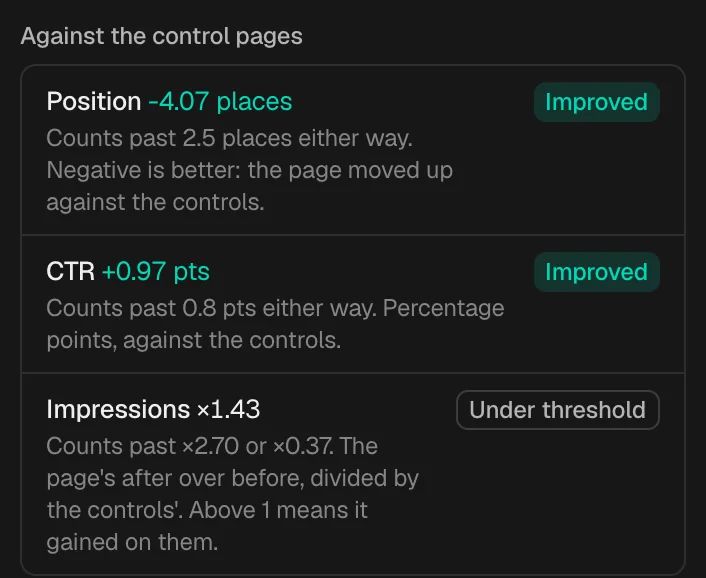
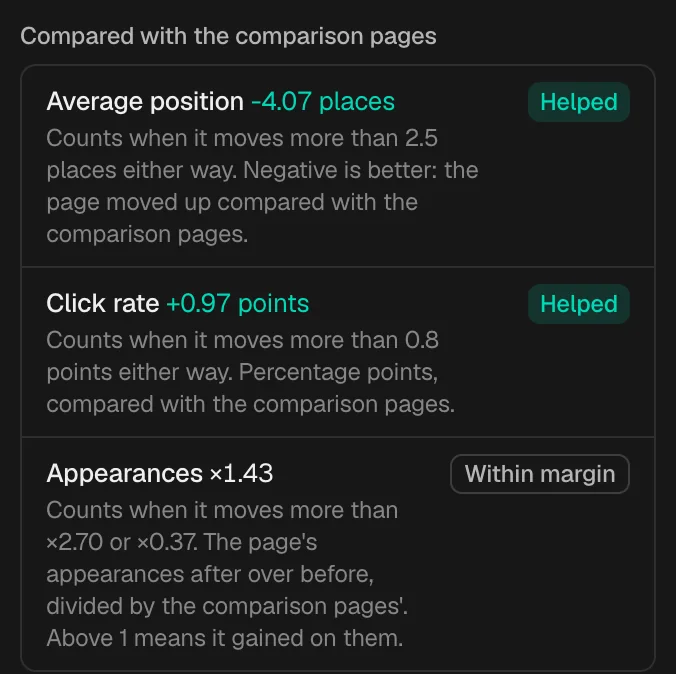
Show Unkey and the products AI answers name beside it on the homepage, with fresh app screenshots

diff --git a/site/index.html b/site/index.html
@@ -16,7 +16,7 @@
 <meta property="og:image" content="https://byname.dev/og.png" />
 <meta property="og:image:width" content="1200" />
 <meta property="og:image:height" content="630" />
-<meta property="og:image:alt" content="Byname: when buyers ask AI, does it say your name? An AI answer marked up by Byname: the example brand circled at position 2 and cited, the brands named instead underlined." />
+<meta property="og:image:alt" content="Byname: when buyers ask AI, does it say your name? An AI answer marked up by Byname: the example brand circled at position 2 and linked, the brands named instead underlined." />
 <meta name="twitter:card" content="summary_large_image" />
 <meta name="twitter:title" content="Byname: find out when AI answers name you" />
 <meta name="twitter:description" content="Open source and self-hosted. MIT licensed. Deploy it on Unkey in one prompt." />
@@ -63,7 +63,7 @@
   <section class="hero wrap" id="top" aria-labelledby="hero-title">
     <div class="hero-copy">
       <h1 id="hero-title">When buyers ask AI, does it say <span class="mk" data-mark="circle" data-pad="0.16em 0.05em" data-sw="3">your name</span>?</h1>
-      <p class="hero-lede">Byname asks your buyers' questions in the ChatGPT app, Google AI Mode, Claude Code and nine other places, on a schedule. It keeps every answer, marks who was named and cited, and tells you when that changes.</p>
+      <p class="hero-lede">Byname asks your buyers' questions in the ChatGPT app, Google AI Mode, Claude Code and nine other places, on a schedule. It keeps every answer, marks who was named and linked, and tells you when that changes.</p>
       <div class="hero-acts">
         <a class="btn" href="#run">Deploy on Unkey</a>
         <a class="go" href="https://github.com/unkeyed/byname">View on GitHub</a>
@@ -77,29 +77,29 @@
       <div class="sheet answer" data-hero>
         <article class="pane" id="pane-0" role="tabpanel" aria-labelledby="tab-0" data-stamp="Named #2" data-stamp-tone="you">
           <header class="sheet-head"><span>Asked in <b>ChatGPT app</b></span><span>App answer</span></header>
-          <p class="q">Which hosting platform should a small SaaS team use in 2026?</p>
+          <p class="q">Where should a small team deploy a public API in 2026?</p>
           <div class="ans">
             <p>It depends on your stack, but three providers come up again and again.</p>
             <ol>
-              <li><span class="li-t"><b class="mk" data-mark="underline" data-tone="instead">Litware Cloud</b> for enterprise contracts and region pinning.</span><span class="note instead">#1, named instead</span></li>
-              <li><span class="li-t"><b class="mk" data-mark="circle">Northwind</b> for a managed platform with preview environments and per-team budgets.</span><span class="note you">you, #2 · cited</span></li>
-              <li><span class="li-t"><b class="mk" data-mark="underline" data-tone="instead">Tailspin Hosting</b> for long-running containers at a flat monthly price.</span><span class="note instead">#3</span></li>
+              <li><span class="li-t"><b class="mk" data-mark="underline" data-tone="instead">AWS</b> for API Gateway, Lambda and every region under one contract.</span><span class="note instead">#1, named instead</span></li>
+              <li><span class="li-t"><b class="mk" data-mark="circle">Unkey</b> for deploys with API keys, rate limits and a gateway built in.</span><span class="note you">you, #2 · linked</span></li>
+              <li><span class="li-t"><b class="mk" data-mark="underline" data-tone="instead">Fly.io</b> for long-running containers close to your users.</span><span class="note instead">#3</span></li>
             </ol>
           </div>
-          <footer class="sheet-foot"><span>Cited: northwind.example, litware.example, docs.example.org</span><span class="cost">under $0.01</span></footer>
+          <footer class="sheet-foot"><span>Linked: unkey.com, aws.amazon.com, github.com</span><span class="cost">under $0.01</span></footer>
         </article>
         <article class="pane" id="pane-1" role="tabpanel" aria-labelledby="tab-1" data-stamp="Named #1" data-stamp-tone="you" hidden>
           <header class="sheet-head"><span>Asked in <b>Google AI Mode</b></span><span>App answer</span></header>
-          <p class="q">What is the easiest way to get preview environments for every pull request?</p>
+          <p class="q">What is the easiest way to add API keys and rate limits to an existing API?</p>
           <div class="ans">
             <p>Pick a platform that builds a preview for each pull request and removes it when the branch merges.</p>
             <ol>
-              <li><span class="li-t"><b class="mk" data-mark="circle">Northwind</b> gives every pull request a preview URL and its own seeded database.</span><span class="note you">you, #1 · cited</span></li>
-              <li><span class="li-t"><b class="mk" data-mark="underline" data-tone="instead">Fabrikam Deploy</b> builds previews through a GitHub Action you maintain.</span><span class="note instead">#2</span></li>
-              <li><span class="li-t"><b class="mk" data-mark="underline" data-tone="instead">Contoso Edge</b> routes previews at the edge, with one shared database.</span><span class="note instead">#3</span></li>
+              <li><span class="li-t"><b class="mk" data-mark="circle">Unkey</b> issues and verifies keys, with a rate limit on each key, in one call.</span><span class="note you">you, #1 · linked</span></li>
+              <li><span class="li-t"><b class="mk" data-mark="underline" data-tone="instead">Zuplo</b> adds key auth and rate limits as policies on its gateway.</span><span class="note instead">#2</span></li>
+              <li><span class="li-t"><b class="mk" data-mark="underline" data-tone="instead">Cloudflare</b> rate limits at the edge, with rules you set per route.</span><span class="note instead">#3</span></li>
             </ol>
           </div>
-          <footer class="sheet-foot"><span>Cited: northwind.example, fabrikam.example</span><span class="cost">under $0.01</span></footer>
+          <footer class="sheet-foot"><span>Linked: unkey.com, zuplo.com</span><span class="cost">under $0.01</span></footer>
         </article>
         <article class="pane" id="pane-2" role="tabpanel" aria-labelledby="tab-2" data-stamp="Not named" data-stamp-tone="instead" hidden>
           <header class="sheet-head"><span>Asked in <b>Claude Code</b> · claude-sonnet-5-5</span><span>Same model and search</span></header>
@@ -107,9 +107,9 @@
           <div class="ans">
             <p>Choose a provider with a Frankfurt or Amsterdam region and managed Postgres in the same place.</p>
             <ol>
-              <li><span class="li-t"><b class="mk" data-mark="underline" data-tone="instead">Tailspin Hosting</b> runs managed Postgres in Frankfurt with read replicas.</span><span class="note instead">named instead</span></li>
-              <li><span class="li-t"><b class="mk" data-mark="underline" data-tone="instead">Contoso Edge</b> puts edge routing in front of a regional database.</span><span class="note instead">named instead</span></li>
-              <li><span class="li-t"><b class="mk" data-mark="underline" data-tone="instead">Fabrikam Deploy</b> keeps container deploys and data inside the EU.</span><span class="note instead">named instead</span></li>
+              <li><span class="li-t"><b class="mk" data-mark="underline" data-tone="instead">Fly.io</b> runs your API and managed Postgres in Frankfurt.</span><span class="note instead">named instead</span></li>
+              <li><span class="li-t"><b class="mk" data-mark="underline" data-tone="instead">Cloudflare</b> puts edge routing in front of a regional database.</span><span class="note instead">named instead</span></li>
+              <li><span class="li-t"><b class="mk" data-mark="underline" data-tone="instead">AWS</b> keeps API Gateway and RDS together in Frankfurt.</span><span class="note instead">named instead</span></li>
             </ol>
           </div>
           <footer class="sheet-foot"><span>Searched: managed postgres frankfurt, eu api hosting</span><span class="cost">$0.05</span></footer>
@@ -135,25 +135,25 @@
     <figure class="contents sheet" data-reveal>
       <div class="contents-scroll">
         <table class="qtable">
-          <caption class="sr-only">Check #8 for Northwind Cloud, an example brand: each question on each surface and model.</caption>
+          <caption class="sr-only">Check #8 for Unkey, with example data: each question on each surface and model.</caption>
 <!-- contents -->
 <thead><tr><th scope="col" class="q-h">Question</th><th scope="col"><span>ChatGPT app</span></th><th scope="col"><span>Google AI Overview</span></th><th scope="col"><span>Perplexity app</span></th><th scope="col"><span>Codex CLI</span></th><th scope="col"><span>Claude Code<small>Opus 5.5</small></span></th><th scope="col"><span>Claude Code<small>Sonnet 5.5</small></span></th><th scope="col" class="q-s">Named</th></tr></thead>
 <tbody>
-<tr><th scope="row"><div class="q-cell"><span class="q-n">1</span><span class="q-t">Which hosting platform should a small SaaS team use in 2026?</span></div></th><td data-s="ChatGPT"><span class="tm mk" data-mark="circle" aria-hidden="true">1</span><span class="sr-only">ChatGPT app: named #1</span></td><td data-s="AI Overview"><span class="tm mk" data-mark="circle" aria-hidden="true">1</span><span class="sr-only">Google AI Overview: named #1</span></td><td data-s="Perplexity"><span class="tm mk" data-mark="circle" aria-hidden="true">2</span><span class="sr-only">Perplexity app: named #2</span></td><td data-s="Codex"><span class="tm mk" data-mark="circle" aria-hidden="true">2</span><span class="sr-only">Codex CLI: named #2</span></td><td data-s="Opus"><span class="tm mk" data-mark="circle" aria-hidden="true">2</span><span class="sr-only">Claude Code Opus 5.5: named #2</span></td><td data-s="Sonnet"><span class="tm mk" data-mark="circle" aria-hidden="true">2</span><span class="sr-only">Claude Code Sonnet 5.5: named #2</span></td><td class="q-s">6<small> of 6</small></td></tr>
-<tr><th scope="row"><div class="q-cell"><span class="q-n">2</span><span class="q-t">What is the easiest way to get preview environments for every pull request?</span></div></th><td data-s="ChatGPT"><span class="tm mk" data-mark="circle" aria-hidden="true">2</span><span class="sr-only">ChatGPT app: named #2</span></td><td data-s="AI Overview"><span class="tm mk" data-mark="circle" aria-hidden="true">1</span><span class="sr-only">Google AI Overview: named #1</span></td><td data-s="Perplexity"><span class="tm mk" data-mark="circle" aria-hidden="true">1</span><span class="sr-only">Perplexity app: named #1</span></td><td data-s="Codex"><span class="tm mk" data-mark="circle" aria-hidden="true">2</span><span class="sr-only">Codex CLI: named #2</span></td><td data-s="Opus"><span class="tm mk" data-mark="circle" aria-hidden="true">1</span><span class="sr-only">Claude Code Opus 5.5: named #1</span></td><td data-s="Sonnet"><span class="tm mk" data-mark="circle" aria-hidden="true">4</span><span class="sr-only">Claude Code Sonnet 5.5: named #4</span></td><td class="q-s">6<small> of 6</small></td></tr>
-<tr><th scope="row"><div class="q-cell"><span class="q-n">3</span><span class="q-t">Which cloud platform has the most predictable pricing for a startup?</span></div></th><td data-s="ChatGPT"><span class="tm miss mk" data-mark="dash" data-tone="instead" aria-hidden="true"></span><span class="sr-only">ChatGPT app: not named</span></td><td data-s="AI Overview"><span class="tm mk" data-mark="circle" aria-hidden="true">2</span><span class="sr-only">Google AI Overview: named #2</span></td><td data-s="Perplexity"><span class="tm mk" data-mark="circle" aria-hidden="true">3</span><span class="sr-only">Perplexity app: named #3</span></td><td data-s="Codex"><span class="tm mk" data-mark="circle" aria-hidden="true">1</span><span class="sr-only">Codex CLI: named #1</span></td><td data-s="Opus"><span class="tm mk" data-mark="circle" aria-hidden="true">3</span><span class="sr-only">Claude Code Opus 5.5: named #3</span></td><td data-s="Sonnet"><span class="tm mk" data-mark="circle" aria-hidden="true">4</span><span class="sr-only">Claude Code Sonnet 5.5: named #4</span></td><td class="q-s">5<small> of 6</small></td></tr>
-<tr><th scope="row"><div class="q-cell"><span class="q-n">4</span><span class="q-t">How do I move a Node.js app off a single VPS without downtime?</span></div></th><td data-s="ChatGPT"><span class="tm mk" data-mark="circle" aria-hidden="true">2</span><span class="sr-only">ChatGPT app: named #2</span></td><td data-s="AI Overview"><span class="tm mk" data-mark="circle" aria-hidden="true">3</span><span class="sr-only">Google AI Overview: named #3</span></td><td data-s="Perplexity"><span class="tm mk" data-mark="circle" aria-hidden="true">2</span><span class="sr-only">Perplexity app: named #2</span></td><td data-s="Codex"><span class="tm mk" data-mark="circle" aria-hidden="true">1</span><span class="sr-only">Codex CLI: named #1</span></td><td data-s="Opus"><span class="tm mk" data-mark="circle" aria-hidden="true">1</span><span class="sr-only">Claude Code Opus 5.5: named #1</span></td><td data-s="Sonnet"><span class="tm mk" data-mark="circle" aria-hidden="true">1</span><span class="sr-only">Claude Code Sonnet 5.5: named #1</span></td><td class="q-s">6<small> of 6</small></td></tr>
-<tr><th scope="row"><div class="q-cell"><span class="q-n">5</span><span class="q-t">What are good alternatives to managing my own container cluster?</span></div></th><td data-s="ChatGPT"><span class="tm mk" data-mark="circle" aria-hidden="true">3</span><span class="sr-only">ChatGPT app: named #3</span></td><td data-s="AI Overview"><span class="tm mk" data-mark="circle" aria-hidden="true">2</span><span class="sr-only">Google AI Overview: named #2</span></td><td data-s="Perplexity"><span class="tm mk" data-mark="circle" aria-hidden="true">5</span><span class="sr-only">Perplexity app: named #5</span></td><td data-s="Codex"><span class="tm mk" data-mark="circle" aria-hidden="true">3</span><span class="sr-only">Codex CLI: named #3</span></td><td data-s="Opus"><span class="tm mk" data-mark="circle" aria-hidden="true">1</span><span class="sr-only">Claude Code Opus 5.5: named #1</span></td><td data-s="Sonnet"><span class="tm mk" data-mark="circle" aria-hidden="true">1</span><span class="sr-only">Claude Code Sonnet 5.5: named #1</span></td><td class="q-s">6<small> of 6</small></td></tr>
-<tr><th scope="row"><div class="q-cell"><span class="q-n">6</span><span class="q-t">Which platform is best for hosting a Postgres-backed API close to European users?</span></div></th><td data-s="ChatGPT"><span class="tm miss mk" data-mark="dash" data-tone="instead" aria-hidden="true"></span><span class="sr-only">ChatGPT app: not named</span></td><td data-s="AI Overview"><span class="tm miss mk" data-mark="dash" data-tone="instead" aria-hidden="true"></span><span class="sr-only">Google AI Overview: not named</span></td><td data-s="Perplexity"><span class="tm cite mk" data-mark="tick" aria-hidden="true">c</span><span class="sr-only">Perplexity app: cited, not named</span></td><td data-s="Codex"><span class="tm miss mk" data-mark="dash" data-tone="instead" aria-hidden="true"></span><span class="sr-only">Codex CLI: not named</span></td><td data-s="Opus"><span class="tm cite mk" data-mark="tick" aria-hidden="true">c</span><span class="sr-only">Claude Code Opus 5.5: cited, not named</span></td><td data-s="Sonnet"><span class="tm miss mk" data-mark="dash" data-tone="instead" aria-hidden="true"></span><span class="sr-only">Claude Code Sonnet 5.5: not named</span></td><td class="q-s">0<small> of 6</small></td></tr>
+<tr><th scope="row"><div class="q-cell"><span class="q-n">1</span><span class="q-t">Where should a small team deploy a public API in 2026?</span></div></th><td data-s="ChatGPT"><span class="tm mk" data-mark="circle" aria-hidden="true">1</span><span class="sr-only">ChatGPT app: named #1</span></td><td data-s="AI Overview"><span class="tm mk" data-mark="circle" aria-hidden="true">1</span><span class="sr-only">Google AI Overview: named #1</span></td><td data-s="Perplexity"><span class="tm mk" data-mark="circle" aria-hidden="true">2</span><span class="sr-only">Perplexity app: named #2</span></td><td data-s="Codex"><span class="tm mk" data-mark="circle" aria-hidden="true">2</span><span class="sr-only">Codex CLI: named #2</span></td><td data-s="Opus"><span class="tm mk" data-mark="circle" aria-hidden="true">2</span><span class="sr-only">Claude Code Opus 5.5: named #2</span></td><td data-s="Sonnet"><span class="tm mk" data-mark="circle" aria-hidden="true">2</span><span class="sr-only">Claude Code Sonnet 5.5: named #2</span></td><td class="q-s">6<small> of 6</small></td></tr>
+<tr><th scope="row"><div class="q-cell"><span class="q-n">2</span><span class="q-t">What is the easiest way to add API keys and rate limits to an existing API?</span></div></th><td data-s="ChatGPT"><span class="tm mk" data-mark="circle" aria-hidden="true">2</span><span class="sr-only">ChatGPT app: named #2</span></td><td data-s="AI Overview"><span class="tm mk" data-mark="circle" aria-hidden="true">1</span><span class="sr-only">Google AI Overview: named #1</span></td><td data-s="Perplexity"><span class="tm mk" data-mark="circle" aria-hidden="true">1</span><span class="sr-only">Perplexity app: named #1</span></td><td data-s="Codex"><span class="tm mk" data-mark="circle" aria-hidden="true">2</span><span class="sr-only">Codex CLI: named #2</span></td><td data-s="Opus"><span class="tm mk" data-mark="circle" aria-hidden="true">1</span><span class="sr-only">Claude Code Opus 5.5: named #1</span></td><td data-s="Sonnet"><span class="tm mk" data-mark="circle" aria-hidden="true">4</span><span class="sr-only">Claude Code Sonnet 5.5: named #4</span></td><td class="q-s">6<small> of 6</small></td></tr>
+<tr><th scope="row"><div class="q-cell"><span class="q-n">3</span><span class="q-t">Which API platform has the most predictable pricing for a startup?</span></div></th><td data-s="ChatGPT"><span class="tm miss mk" data-mark="dash" data-tone="instead" aria-hidden="true"></span><span class="sr-only">ChatGPT app: not named</span></td><td data-s="AI Overview"><span class="tm mk" data-mark="circle" aria-hidden="true">2</span><span class="sr-only">Google AI Overview: named #2</span></td><td data-s="Perplexity"><span class="tm mk" data-mark="circle" aria-hidden="true">3</span><span class="sr-only">Perplexity app: named #3</span></td><td data-s="Codex"><span class="tm mk" data-mark="circle" aria-hidden="true">1</span><span class="sr-only">Codex CLI: named #1</span></td><td data-s="Opus"><span class="tm mk" data-mark="circle" aria-hidden="true">3</span><span class="sr-only">Claude Code Opus 5.5: named #3</span></td><td data-s="Sonnet"><span class="tm mk" data-mark="circle" aria-hidden="true">4</span><span class="sr-only">Claude Code Sonnet 5.5: named #4</span></td><td class="q-s">5<small> of 6</small></td></tr>
+<tr><th scope="row"><div class="q-cell"><span class="q-n">4</span><span class="q-t">How do I move an API off a single VPS without downtime?</span></div></th><td data-s="ChatGPT"><span class="tm mk" data-mark="circle" aria-hidden="true">2</span><span class="sr-only">ChatGPT app: named #2</span></td><td data-s="AI Overview"><span class="tm mk" data-mark="circle" aria-hidden="true">3</span><span class="sr-only">Google AI Overview: named #3</span></td><td data-s="Perplexity"><span class="tm mk" data-mark="circle" aria-hidden="true">2</span><span class="sr-only">Perplexity app: named #2</span></td><td data-s="Codex"><span class="tm mk" data-mark="circle" aria-hidden="true">1</span><span class="sr-only">Codex CLI: named #1</span></td><td data-s="Opus"><span class="tm mk" data-mark="circle" aria-hidden="true">1</span><span class="sr-only">Claude Code Opus 5.5: named #1</span></td><td data-s="Sonnet"><span class="tm mk" data-mark="circle" aria-hidden="true">1</span><span class="sr-only">Claude Code Sonnet 5.5: named #1</span></td><td class="q-s">6<small> of 6</small></td></tr>
+<tr><th scope="row"><div class="q-cell"><span class="q-n">5</span><span class="q-t">What are good alternatives to running my own API gateway?</span></div></th><td data-s="ChatGPT"><span class="tm mk" data-mark="circle" aria-hidden="true">3</span><span class="sr-only">ChatGPT app: named #3</span></td><td data-s="AI Overview"><span class="tm mk" data-mark="circle" aria-hidden="true">2</span><span class="sr-only">Google AI Overview: named #2</span></td><td data-s="Perplexity"><span class="tm mk" data-mark="circle" aria-hidden="true">5</span><span class="sr-only">Perplexity app: named #5</span></td><td data-s="Codex"><span class="tm mk" data-mark="circle" aria-hidden="true">3</span><span class="sr-only">Codex CLI: named #3</span></td><td data-s="Opus"><span class="tm mk" data-mark="circle" aria-hidden="true">1</span><span class="sr-only">Claude Code Opus 5.5: named #1</span></td><td data-s="Sonnet"><span class="tm mk" data-mark="circle" aria-hidden="true">1</span><span class="sr-only">Claude Code Sonnet 5.5: named #1</span></td><td class="q-s">6<small> of 6</small></td></tr>
+<tr><th scope="row"><div class="q-cell"><span class="q-n">6</span><span class="q-t">Which platform is best for hosting a Postgres-backed API close to European users?</span></div></th><td data-s="ChatGPT"><span class="tm miss mk" data-mark="dash" data-tone="instead" aria-hidden="true"></span><span class="sr-only">ChatGPT app: not named</span></td><td data-s="AI Overview"><span class="tm miss mk" data-mark="dash" data-tone="instead" aria-hidden="true"></span><span class="sr-only">Google AI Overview: not named</span></td><td data-s="Perplexity"><span class="tm cite mk" data-mark="tick" aria-hidden="true"></span><span class="sr-only">Perplexity app: linked, not named</span></td><td data-s="Codex"><span class="tm miss mk" data-mark="dash" data-tone="instead" aria-hidden="true"></span><span class="sr-only">Codex CLI: not named</span></td><td data-s="Opus"><span class="tm cite mk" data-mark="tick" aria-hidden="true"></span><span class="sr-only">Claude Code Opus 5.5: linked, not named</span></td><td data-s="Sonnet"><span class="tm miss mk" data-mark="dash" data-tone="instead" aria-hidden="true"></span><span class="sr-only">Claude Code Sonnet 5.5: not named</span></td><td class="q-s">0<small> of 6</small></td></tr>
 </tbody>
 <!-- /contents -->
         </table>
       </div>
       <figcaption class="legend">
         <span><span class="tm mk" data-mark="circle" aria-hidden="true">2</span> named, at position 2</span>
-        <span><span class="tm cite mk" data-mark="tick" aria-hidden="true">c</span> cited, not named</span>
+        <span><span class="tm cite mk" data-mark="tick" aria-hidden="true"></span> linked, not named</span>
         <span><span class="tm miss mk" data-mark="dash" data-tone="instead" aria-hidden="true"></span> named someone else</span>
-        <span class="legend-src">Check #8 · Northwind Cloud, an example brand · 29 of 36 named</span>
+        <span class="legend-src">Check #8 · Unkey, example data · 29 of 36 named</span>
       </figcaption>
     </figure>
   </section>
@@ -164,11 +164,11 @@
         <p class="kicker"><span>2</span>The record</p>
         <h2 id="record-title">Every answer, kept. <em>With what it cost.</em></h2>
       </div>
-      <p class="sec-lede">Each check stores the raw answer, who it named and cited, and what the call cost. A call that reports no cost is flagged, never counted as $0.00. Pick any two checks to see what you gained, lost and moved.</p>
+      <p class="sec-lede">Each check stores the raw answer, who it named and linked to, and what the call cost. A call that reports no cost is flagged, never counted as $0.00. Pick any two checks to see what you gained, lost and moved.</p>
     </div>
     <figure class="ledger sheet" data-reveal>
       <table class="ltable">
-        <caption class="sr-only">Eight checks for the example brand Northwind Cloud, each with 36 answers: how many named it, what changed since the check before, and the spend.</caption>
+        <caption class="sr-only">Eight checks for Unkey, with example data, each with 36 answers: how many named it, what changed since the check before, and the spend.</caption>
         <thead><tr><th scope="col">Check</th><th scope="col">Named</th><th scope="col" class="l-strip-h">Its 36 answers</th><th scope="col">Gained</th><th scope="col">Lost</th><th scope="col">Moved</th><th scope="col">Spend</th></tr></thead>
         <tbody>
 <!-- ledger -->
@@ -189,7 +189,7 @@
         <p class="lnote you" data-for="8"><span class="mk" data-mark="underline">Check #8</span>: back to 29 of 36, the best yet.</p>
       </figcaption>
     </figure>
-    <p class="strip-key" aria-hidden="true"><svg viewBox="0 0 12 22"><path class="t-n" d="M6 4v14" /></svg>named <svg viewBox="0 0 12 22"><path class="t-c" d="M6 11v7" /></svg>cited only <svg viewBox="0 0 12 22"><path class="t-m" d="M6 15v3" /></svg>not named <svg viewBox="0 0 12 22"><path class="t-x" d="M4.5 13.5l3 3m0-3l-3 3" /></svg>failed</p>
+    <p class="strip-key" aria-hidden="true"><svg viewBox="0 0 12 22"><path class="t-n" d="M6 4v14" /></svg>named <svg viewBox="0 0 12 22"><path class="t-c" d="M6 11v7" /></svg>linked only <svg viewBox="0 0 12 22"><path class="t-m" d="M6 15v3" /></svg>not named <svg viewBox="0 0 12 22"><path class="t-x" d="M4.5 13.5l3 3m0-3l-3 3" /></svg>failed</p>
   </section>
 
   <section class="sec wrap" id="lost" aria-labelledby="lost-title">
@@ -201,28 +201,28 @@
     <div class="story" data-reveal>
       <figure class="sheet clip" aria-labelledby="c6-cap">
         <header class="sheet-head"><span id="c6-cap"><b>Check #6</b> · ChatGPT app</span><span>App answer</span></header>
-        <p class="q">Which cloud platform has the most predictable pricing for a startup?</p>
+        <p class="q">Which API platform has the most predictable pricing for a startup?</p>
         <ol class="mini">
-          <li><b>Litware Cloud</b></li>
-          <li><b class="mk" data-mark="circle">Northwind</b><span class="note you">you, #2 · cited</span></li>
-          <li><b>Contoso Edge</b></li>
-          <li><b>Tailspin Hosting</b></li>
-          <li><b>Fabrikam Deploy</b></li>
+          <li><b>AWS</b></li>
+          <li><b class="mk" data-mark="circle">Unkey</b><span class="note you">you, #2 · linked</span></li>
+          <li><b>Cloudflare</b></li>
+          <li><b>Fly.io</b></li>
+          <li><b>Zuplo</b></li>
         </ol>
-        <footer class="sheet-foot"><span>Cited: northwind.example and 3 more</span><span class="cost">under $0.01</span></footer>
+        <footer class="sheet-foot"><span>Linked: unkey.com and 3 more</span><span class="cost">under $0.01</span></footer>
       </figure>
       <svg class="story-arrow" viewBox="0 0 80 40" aria-hidden="true"><path class="draw" pathLength="1" d="M4 24 C 22 10, 46 10, 70 20 M61 13 L71 20 L60 25" /></svg>
       <figure class="sheet clip" aria-labelledby="c7-cap">
         <header class="sheet-head"><span id="c7-cap"><b>Check #7</b> · ChatGPT app</span><span>App answer</span></header>
-        <p class="q">Which cloud platform has the most predictable pricing for a startup?</p>
+        <p class="q">Which API platform has the most predictable pricing for a startup?</p>
         <ol class="mini">
-          <li><b class="mk" data-mark="underline" data-tone="instead">Tailspin Hosting</b><span class="note instead">named first</span></li>
-          <li><b>Contoso Edge</b></li>
-          <li><b>Fabrikam Deploy</b></li>
-          <li><b>Litware Cloud</b></li>
+          <li><b class="mk" data-mark="underline" data-tone="instead">Fly.io</b><span class="note instead">named first</span></li>
+          <li><b>Cloudflare</b></li>
+          <li><b>Zuplo</b></li>
+          <li><b>AWS</b></li>
         </ol>
-        <p class="gone"><span class="mk caret" data-mark="caret" data-tone="instead" aria-hidden="true"></span><span class="note instead">Northwind: not named, and northwind.example no longer cited</span></p>
-        <footer class="sheet-foot"><span>Cited: tailspin.example and 3 more</span><span class="cost">under $0.01</span></footer>
+        <p class="gone"><span class="mk caret" data-mark="caret" data-tone="instead" aria-hidden="true"></span><span class="note instead">Unkey: not named, and unkey.com no longer linked</span></p>
+        <footer class="sheet-foot"><span>Linked: fly.io and 3 more</span><span class="cost">under $0.01</span></footer>
       </figure>
       <svg class="story-arrow" viewBox="0 0 80 40" aria-hidden="true"><path class="draw" pathLength="1" d="M4 22 C 24 30, 48 28, 70 18 M60 15 L71 18 L64 27" style="--d:.5s" /></svg>
       <figure class="sheet alert" aria-labelledby="alert-cap">
@@ -231,21 +231,21 @@
         <p>Named in 24 of 36 answers.</p>
         <p>Since check #6: 1 gained, 6 lost, 17 moved, net -5.</p>
         <ul>
-          <li>1 gained, 1 lost, 4 moved: What is the easiest way to get preview environments for every pull request?</li>
-          <li><span class="mk" data-mark="underline" data-tone="instead">3 lost</span>, 3 moved: Which cloud platform has the most predictable pricing for a startup?</li>
-          <li>1 lost, 5 moved: How do I move a Node.js app off a single VPS without downtime?</li>
+          <li>1 gained, 1 lost, 4 moved: What is the easiest way to add API keys and rate limits to an existing API?</li>
+          <li><span class="mk" data-mark="underline" data-tone="instead">3 lost</span>, 3 moved: Which API platform has the most predictable pricing for a startup?</li>
+          <li>1 lost, 5 moved: How do I move an API off a single VPS without downtime?</li>
         </ul>
         <p class="alert-link">Open in Byname</p>
       </figure>
     </div>
     <div class="proof">
-      <p class="proof-note">The same two checks in Byname's Compare view, filtered to what was lost. <span>A real screenshot of the app, with example data.</span></p>
+      <p class="proof-note">The same two checks in Byname's What changed view, filtered to what was lost. <span>A real screenshot of the app, with example data.</span></p>
       <figure class="sheet shot">
         <picture>
-          <source media="(max-width: 600px) and (prefers-color-scheme: dark)" srcset="/screens/compare-lost-sm-dark.webp" width="788" height="490" />
-          <source media="(max-width: 600px)" srcset="/screens/compare-lost-sm.webp" width="788" height="490" />
-          <source media="(prefers-color-scheme: dark)" srcset="/screens/compare-lost-dark.webp" width="1848" height="1066" />
-          <img src="/screens/compare-lost.webp" width="1848" height="1066" loading="lazy" decoding="async" alt="Byname's Compare view for check #6 against check #7, showing the 6 lost pairs. The pricing question lost Claude Code with claude-sonnet-5-5 (#2, then cited but not named), Codex CLI (#3, then not named) and the ChatGPT app (#2, then not named)." />
+          <source media="(max-width: 600px) and (prefers-color-scheme: dark)" srcset="/screens/compare-lost-sm-dark.webp" width="758" height="490" />
+          <source media="(max-width: 600px)" srcset="/screens/compare-lost-sm.webp" width="758" height="490" />
+          <source media="(prefers-color-scheme: dark)" srcset="/screens/compare-lost-dark.webp" width="1818" height="1066" />
+          <img src="/screens/compare-lost.webp" width="1818" height="1066" loading="lazy" decoding="async" alt="Byname's What changed view for check #6 against check #7, showing the 6 lost answers. The pricing question lost Claude Code with claude-sonnet-5-5 (#2, then linked but not named), Codex CLI (#3, then not named) and the ChatGPT app (#2, then not named)." />
         </picture>
       </figure>
     </div>
@@ -300,15 +300,15 @@
         <p class="kicker"><span>5</span>Search and site changes</p>
         <h2 id="search-title">Search Console, <em>on the same timeline.</em></h2>
       </div>
-      <p class="sec-lede">Byname reads Search Console every day with read-only access: clicks, impressions, CTR and position, and brand against non-brand. Merged pull requests and changes you log by hand mark the chart. After Google recrawls a changed page, Byname compares it with control pages you left alone.</p>
+      <p class="sec-lede">Byname reads Search Console every day with read-only access: clicks, impressions, CTR and position, and brand against non-brand. Merged pull requests and changes you log by hand mark the chart. After Google recrawls a changed page, Byname compares it with pages you left alone.</p>
     </div>
     <div class="chart-block" data-reveal>
       <figure class="chart sheet">
-        <figcaption class="chart-cap"><span>Clicks per day · northwind.example</span><span>Aug 23 to Nov 20, 2026</span></figcaption>
+        <figcaption class="chart-cap"><span>Clicks per day · unkey.com, example data</span><span>Aug 23 to Nov 20, 2026</span></figcaption>
         <div class="chart-wide">
 <!-- chart-wide -->
 <svg class="chart-svg" viewBox="0 0 1000 360" role="img" aria-labelledby="chart-t-1000" style="--fs:12px">
-<title id="chart-t-1000">Search Console clicks per day for the example site, August 23 to November 20, 2026, between about 50 and 120 a day. Five site changes are marked. The change logged on October 7 to /docs/preview-environments is circled, with brackets over the 31 days before it and the 31 days after Google's first crawl, October 10 to November 9.</title>
+<title id="chart-t-1000">Search Console clicks per day for the example site, August 23 to November 20, 2026, between about 50 and 120 a day. Five site changes are marked. The change logged on October 7 to /docs/ratelimiting is circled, with brackets over the 31 days before it and the 31 days after Google's first crawl, October 10 to November 9.</title>
 <path class="c-grid" d="M40 216.15384615384616H988"/><text class="c-y" x="32" y="220.35384615384615" text-anchor="end">50</text><path class="c-grid" d="M40 102.30769230769229H988"/><text class="c-y" x="32" y="106.5076923076923" text-anchor="end">100</text><text class="c-x" x="135.86516853932585" y="351.6" text-anchor="middle">Sep</text><path class="c-tick" d="M135.86516853932585 330v5"/><text class="c-x" x="455.4157303370787" y="351.6" text-anchor="middle">Oct</text><path class="c-tick" d="M455.4157303370787 330v5"/><text class="c-x" x="785.6179775280899" y="351.6" text-anchor="middle">Nov</text><path class="c-tick" d="M785.6179775280899 330v5"/>
 <path class="c-area" d="M40.0 218.4L50.7 152.4L61.3 154.7L72.0 161.5L82.6 157.0L93.3 166.1L103.9 213.9L114.6 211.6L125.2 154.7L135.9 168.3L146.5 157.0L157.2 152.4L167.8 154.7L178.5 202.5L189.1 204.8L199.8 157.0L210.4 152.4L221.1 141.0L231.7 161.5L242.4 154.7L253.0 202.5L263.7 209.3L274.3 145.6L285.0 150.1L295.6 154.7L306.3 138.7L316.9 154.7L327.6 218.4L338.2 213.9L348.9 150.1L359.6 129.6L370.2 152.4L380.9 154.7L391.5 141.0L402.2 211.6L412.8 197.9L423.5 145.6L434.1 159.2L444.8 163.8L455.4 166.1L466.1 172.9L476.7 223.0L487.4 211.6L498.0 150.1L508.7 129.6L519.3 145.6L530.0 131.9L540.6 159.2L551.3 168.3L561.9 188.8L572.6 118.2L583.2 93.2L593.9 129.6L604.5 100.0L615.2 111.4L625.8 166.1L636.5 182.0L647.1 127.4L657.8 106.9L668.4 111.4L679.1 93.2L689.8 116.0L700.4 172.9L711.1 163.8L721.7 88.6L732.4 134.2L743.0 109.1L753.7 93.2L764.3 97.8L775.0 161.5L785.6 184.3L796.3 122.8L806.9 72.7L817.6 113.7L828.2 61.3L838.9 97.8L849.5 172.9L860.2 188.8L870.8 104.6L881.5 90.9L892.1 97.8L902.8 97.8L913.4 90.9L924.1 161.5L934.7 154.7L945.4 104.6L956.0 77.3L966.7 68.2L977.3 72.7L988.0 79.5L988.0 330L40.0 330Z"/><path class="c-line" d="M40.0 218.4L50.7 152.4L61.3 154.7L72.0 161.5L82.6 157.0L93.3 166.1L103.9 213.9L114.6 211.6L125.2 154.7L135.9 168.3L146.5 157.0L157.2 152.4L167.8 154.7L178.5 202.5L189.1 204.8L199.8 157.0L210.4 152.4L221.1 141.0L231.7 161.5L242.4 154.7L253.0 202.5L263.7 209.3L274.3 145.6L285.0 150.1L295.6 154.7L306.3 138.7L316.9 154.7L327.6 218.4L338.2 213.9L348.9 150.1L359.6 129.6L370.2 152.4L380.9 154.7L391.5 141.0L402.2 211.6L412.8 197.9L423.5 145.6L434.1 159.2L444.8 163.8L455.4 166.1L466.1 172.9L476.7 223.0L487.4 211.6L498.0 150.1L508.7 129.6L519.3 145.6L530.0 131.9L540.6 159.2L551.3 168.3L561.9 188.8L572.6 118.2L583.2 93.2L593.9 129.6L604.5 100.0L615.2 111.4L625.8 166.1L636.5 182.0L647.1 127.4L657.8 106.9L668.4 111.4L679.1 93.2L689.8 116.0L700.4 172.9L711.1 163.8L721.7 88.6L732.4 134.2L743.0 109.1L753.7 93.2L764.3 97.8L775.0 161.5L785.6 184.3L796.3 122.8L806.9 72.7L817.6 113.7L828.2 61.3L838.9 97.8L849.5 172.9L860.2 188.8L870.8 104.6L881.5 90.9L892.1 97.8L902.8 97.8L913.4 90.9L924.1 161.5L934.7 154.7L945.4 104.6L956.0 77.3L966.7 68.2L977.3 72.7L988.0 79.5"/>
 <path class="c-pr" d="M732.3595505617977 38V330"/><text class="c-prl" x="732.3595505617977" y="30" text-anchor="middle">#21</text><path class="c-pr" d="M902.7865168539325 38V330"/><text class="c-prl" x="902.7865168539325" y="30" text-anchor="middle">#27</text><path class="c-pr" d="M945.3932584269663 38V330"/><text class="c-prl" x="945.3932584269663" y="30" text-anchor="middle">#24</text><path class="c-pr" d="M988 38V330"/><text class="c-prl" x="988" y="30" text-anchor="middle">#26</text>
@@ -325,7 +325,7 @@
         <div class="chart-narrow">
 <!-- chart-narrow -->
 <svg class="chart-svg" viewBox="0 0 360 300" role="img" aria-labelledby="chart-t-360" style="--fs:10px">
-<title id="chart-t-360">Search Console clicks per day for the example site, August 23 to November 20, 2026, between about 50 and 120 a day. Five site changes are marked. The change logged on October 7 to /docs/preview-environments is circled, with brackets over the 31 days before it and the 31 days after Google's first crawl, October 10 to November 9.</title>
+<title id="chart-t-360">Search Console clicks per day for the example site, August 23 to November 20, 2026, between about 50 and 120 a day. Five site changes are marked. The change logged on October 7 to /docs/ratelimiting is circled, with brackets over the 31 days before it and the 31 days after Google's first crawl, October 10 to November 9.</title>
 <path class="c-grid" d="M26 180.15384615384616H354"/><text class="c-y" x="18" y="183.65384615384616" text-anchor="end">50</text><path class="c-grid" d="M26 86.30769230769229H354"/><text class="c-y" x="18" y="89.80769230769229" text-anchor="end">100</text><text class="c-x" x="59.168539325842694" y="292" text-anchor="middle">Sep</text><path class="c-tick" d="M59.168539325842694 274v5"/><text class="c-x" x="169.7303370786517" y="292" text-anchor="middle">Oct</text><path class="c-tick" d="M169.7303370786517 274v5"/><text class="c-x" x="283.97752808988764" y="292" text-anchor="middle">Nov</text><path class="c-tick" d="M283.97752808988764 274v5"/>
 <path class="c-area" d="M26.0 182.0L29.7 127.6L33.4 129.5L37.1 135.1L40.7 131.4L44.4 138.9L48.1 178.3L51.8 176.4L55.5 129.5L59.2 140.7L62.9 131.4L66.5 127.6L70.2 129.5L73.9 168.9L77.6 170.8L81.3 131.4L85.0 127.6L88.7 118.2L92.3 135.1L96.0 129.5L99.7 168.9L103.4 174.5L107.1 122.0L110.8 125.7L114.4 129.5L118.1 116.3L121.8 129.5L125.5 182.0L129.2 178.3L132.9 125.7L136.6 108.8L140.2 127.6L143.9 129.5L147.6 118.2L151.3 176.4L155.0 165.1L158.7 122.0L162.4 133.2L166.0 137.0L169.7 138.9L173.4 144.5L177.1 185.8L180.8 176.4L184.5 125.7L188.2 108.8L191.8 122.0L195.5 110.7L199.2 133.2L202.9 140.7L206.6 157.6L210.3 99.4L214.0 78.8L217.6 108.8L221.3 84.4L225.0 93.8L228.7 138.9L232.4 152.0L236.1 107.0L239.8 90.1L243.4 93.8L247.1 78.8L250.8 97.6L254.5 144.5L258.2 137.0L261.9 75.0L265.6 112.6L269.2 91.9L272.9 78.8L276.6 82.6L280.3 135.1L284.0 153.9L287.7 103.2L291.3 61.9L295.0 95.7L298.7 52.5L302.4 82.6L306.1 144.5L309.8 157.6L313.5 88.2L317.1 76.9L320.8 82.6L324.5 82.6L328.2 76.9L331.9 135.1L335.6 129.5L339.3 88.2L342.9 65.7L346.6 58.2L350.3 61.9L354.0 67.5L354.0 274L26.0 274Z"/><path class="c-line" d="M26.0 182.0L29.7 127.6L33.4 129.5L37.1 135.1L40.7 131.4L44.4 138.9L48.1 178.3L51.8 176.4L55.5 129.5L59.2 140.7L62.9 131.4L66.5 127.6L70.2 129.5L73.9 168.9L77.6 170.8L81.3 131.4L85.0 127.6L88.7 118.2L92.3 135.1L96.0 129.5L99.7 168.9L103.4 174.5L107.1 122.0L110.8 125.7L114.4 129.5L118.1 116.3L121.8 129.5L125.5 182.0L129.2 178.3L132.9 125.7L136.6 108.8L140.2 127.6L143.9 129.5L147.6 118.2L151.3 176.4L155.0 165.1L158.7 122.0L162.4 133.2L166.0 137.0L169.7 138.9L173.4 144.5L177.1 185.8L180.8 176.4L184.5 125.7L188.2 108.8L191.8 122.0L195.5 110.7L199.2 133.2L202.9 140.7L206.6 157.6L210.3 99.4L214.0 78.8L217.6 108.8L221.3 84.4L225.0 93.8L228.7 138.9L232.4 152.0L236.1 107.0L239.8 90.1L243.4 93.8L247.1 78.8L250.8 97.6L254.5 144.5L258.2 137.0L261.9 75.0L265.6 112.6L269.2 91.9L272.9 78.8L276.6 82.6L280.3 135.1L284.0 153.9L287.7 103.2L291.3 61.9L295.0 95.7L298.7 52.5L302.4 82.6L306.1 144.5L309.8 157.6L313.5 88.2L317.1 76.9L320.8 82.6L324.5 82.6L328.2 76.9L331.9 135.1L335.6 129.5L339.3 88.2L342.9 65.7L346.6 58.2L350.3 61.9L354.0 67.5"/>
 <path class="c-pr" d="M265.55056179775283 34V274"/><path class="c-pr" d="M324.5168539325843 34V274"/><path class="c-pr" d="M339.2584269662921 34V274"/><path class="c-pr" d="M354 34V274"/>
@@ -342,17 +342,17 @@
       </figure>
       <div class="verdict">
         <div class="verdict-text">
-          <p class="verdict-k">/docs/preview-environments</p>
-          <p class="verdict-v"><span class="mk" data-mark="circle" data-pad="12 6">Improved</span> <span class="exp">experimental</span></p>
-          <p>Logged by hand on Oct 7. Over the 31 days after Google recrawled it, against 2 control pages: position up 4.07 places and CTR up 0.97 points.</p>
-          <p class="verdict-how">Each read subtracts what the control pages did over the same days, so a swing in demand that moved every page cancels out.</p>
+          <p class="verdict-k">/docs/ratelimiting</p>
+          <p class="verdict-v"><span class="mk" data-mark="circle" data-pad="12 6">Helped</span> <span class="exp">experimental</span></p>
+          <p>Logged by hand on Oct 7. Over the 31 days after Google recrawled it, compared with 2 pages left alone: average position up 4.07 places and click rate up 0.97 points.</p>
+          <p class="verdict-how">Each result subtracts what the comparison pages did over the same days, so a swing in demand that moved every page cancels out.</p>
         </div>
         <figure class="sheet shot">
           <picture>
-            <source media="(max-width: 600px) and (prefers-color-scheme: dark)" srcset="/screens/verdict-sm-dark.webp" width="706" height="578" />
-            <source media="(max-width: 600px)" srcset="/screens/verdict-sm.webp" width="706" height="578" />
-            <source media="(prefers-color-scheme: dark)" srcset="/screens/verdict-dark.webp" width="1510" height="1052" />
-            <img src="/screens/verdict.webp" width="1510" height="1052" loading="lazy" decoding="async" alt="The final read for the change to /docs/preview-environments in Byname, marked Improved and Experimental. Against the control pages, position moved -4.07 places and CTR rose 0.97 points, both past their thresholds. Impressions rose by a factor of 1.43, under the threshold." />
+            <source media="(max-width: 600px) and (prefers-color-scheme: dark)" srcset="/screens/verdict-sm-dark.webp" width="676" height="674" />
+            <source media="(max-width: 600px)" srcset="/screens/verdict-sm.webp" width="676" height="674" />
+            <source media="(prefers-color-scheme: dark)" srcset="/screens/verdict-dark.webp" width="1480" height="1180" />
+            <img src="/screens/verdict.webp" width="1480" height="1180" loading="lazy" decoding="async" alt="The final result for the change to /docs/ratelimiting in Byname, marked Helped and Experimental. Compared with the comparison pages, average position moved -4.07 places and click rate rose 0.97 points, both past their margins. Appearances rose by a factor of 1.43, within margin." />
           </picture>
         </figure>
       </div>
@@ -369,7 +369,7 @@
     </div>
     <div class="agents">
       <figure class="sheet transcript" data-reveal aria-label="A coding agent asks Byname which questions were lost in check #7 and answers from compare_runs.">
-        <p class="t-head"><span>~/northwind-site</span><span>claude</span></p>
+        <p class="t-head"><span>~/unkey/www</span><span>claude</span></p>
         <div class="t-body">
           <p class="t-user"><span aria-hidden="true">&gt;</span> Which questions did we lose in check #7?</p>
           <p class="t-call"><b>byname</b> compare_runs <span>before=6 after=7</span></p>
@@ -377,12 +377,12 @@
           <div class="t-say">
             <p>Check #7 lost 6 answers that check #6 had:</p>
             <ul>
-              <li><q>Which cloud platform has the most predictable pricing for a startup?</q> on Claude Code with Sonnet, Codex CLI and the ChatGPT app.</li>
-              <li><q>What is the easiest way to get preview environments for every pull request?</q> on the ChatGPT app.</li>
-              <li><q>How do I move a Node.js app off a single VPS without downtime?</q> on Google AI Overview.</li>
-              <li><q>What are good alternatives to managing my own container cluster?</q> on the Perplexity app.</li>
+              <li><q>Which API platform has the most predictable pricing for a startup?</q> on Claude Code with Sonnet, Codex CLI and the ChatGPT app.</li>
+              <li><q>What is the easiest way to add API keys and rate limits to an existing API?</q> on the ChatGPT app.</li>
+              <li><q>How do I move an API off a single VPS without downtime?</q> on Google AI Overview.</li>
+              <li><q>What are good alternatives to running my own API gateway?</q> on the Perplexity app.</li>
             </ul>
-            <p>On the ChatGPT app, the pricing question now names Tailspin Hosting first.</p>
+            <p>On the ChatGPT app, the pricing question now names Fly.io first.</p>
           </div>
         </div>
       </figure>

diff --git a/site/og-image.html b/site/og-image.html
@@ -49,13 +49,13 @@
     <div class="ghost"></div>
     <div class="sheet answer">
       <div class="head"><span>Asked in <b>ChatGPT app</b></span><span>App answer</span></div>
-      <p class="q">“Which hosting platform should a small SaaS team use in 2026?”</p>
+      <p class="q">“Where should a small team deploy a public API in 2026?”</p>
       <ol>
-        <li><span><b class="mk" data-mark="underline" data-tone="instead">Litware Cloud</b> for enterprise contracts</span><span class="note instead">#1, named instead</span></li>
-        <li><span><b class="mk" data-mark="circle">Northwind</b> for preview environments</span><span class="note you">you, #2 · cited</span></li>
-        <li><span><b class="mk" data-mark="underline" data-tone="instead">Tailspin Hosting</b> for flat pricing</span><span class="note instead">#3</span></li>
+        <li><span><b class="mk" data-mark="underline" data-tone="instead">AWS</b> for one contract</span><span class="note instead">#1, named instead</span></li>
+        <li><span><b class="mk" data-mark="circle" data-pad="4 6">Unkey</b> for keys and rate limits</span><span class="note you">you, #2 · linked</span></li>
+        <li><span><b class="mk" data-mark="underline" data-tone="instead">Fly.io</b> for containers near users</span><span class="note instead">#3</span></li>
       </ol>
-      <div class="cost"><span>Example data · check #8</span><span>$0.0040</span></div>
+      <div class="cost"><span>Example data · check #8</span><span>under $0.01</span></div>
       <span class="stamp">Named #2</span>
     </div>
   </div>
